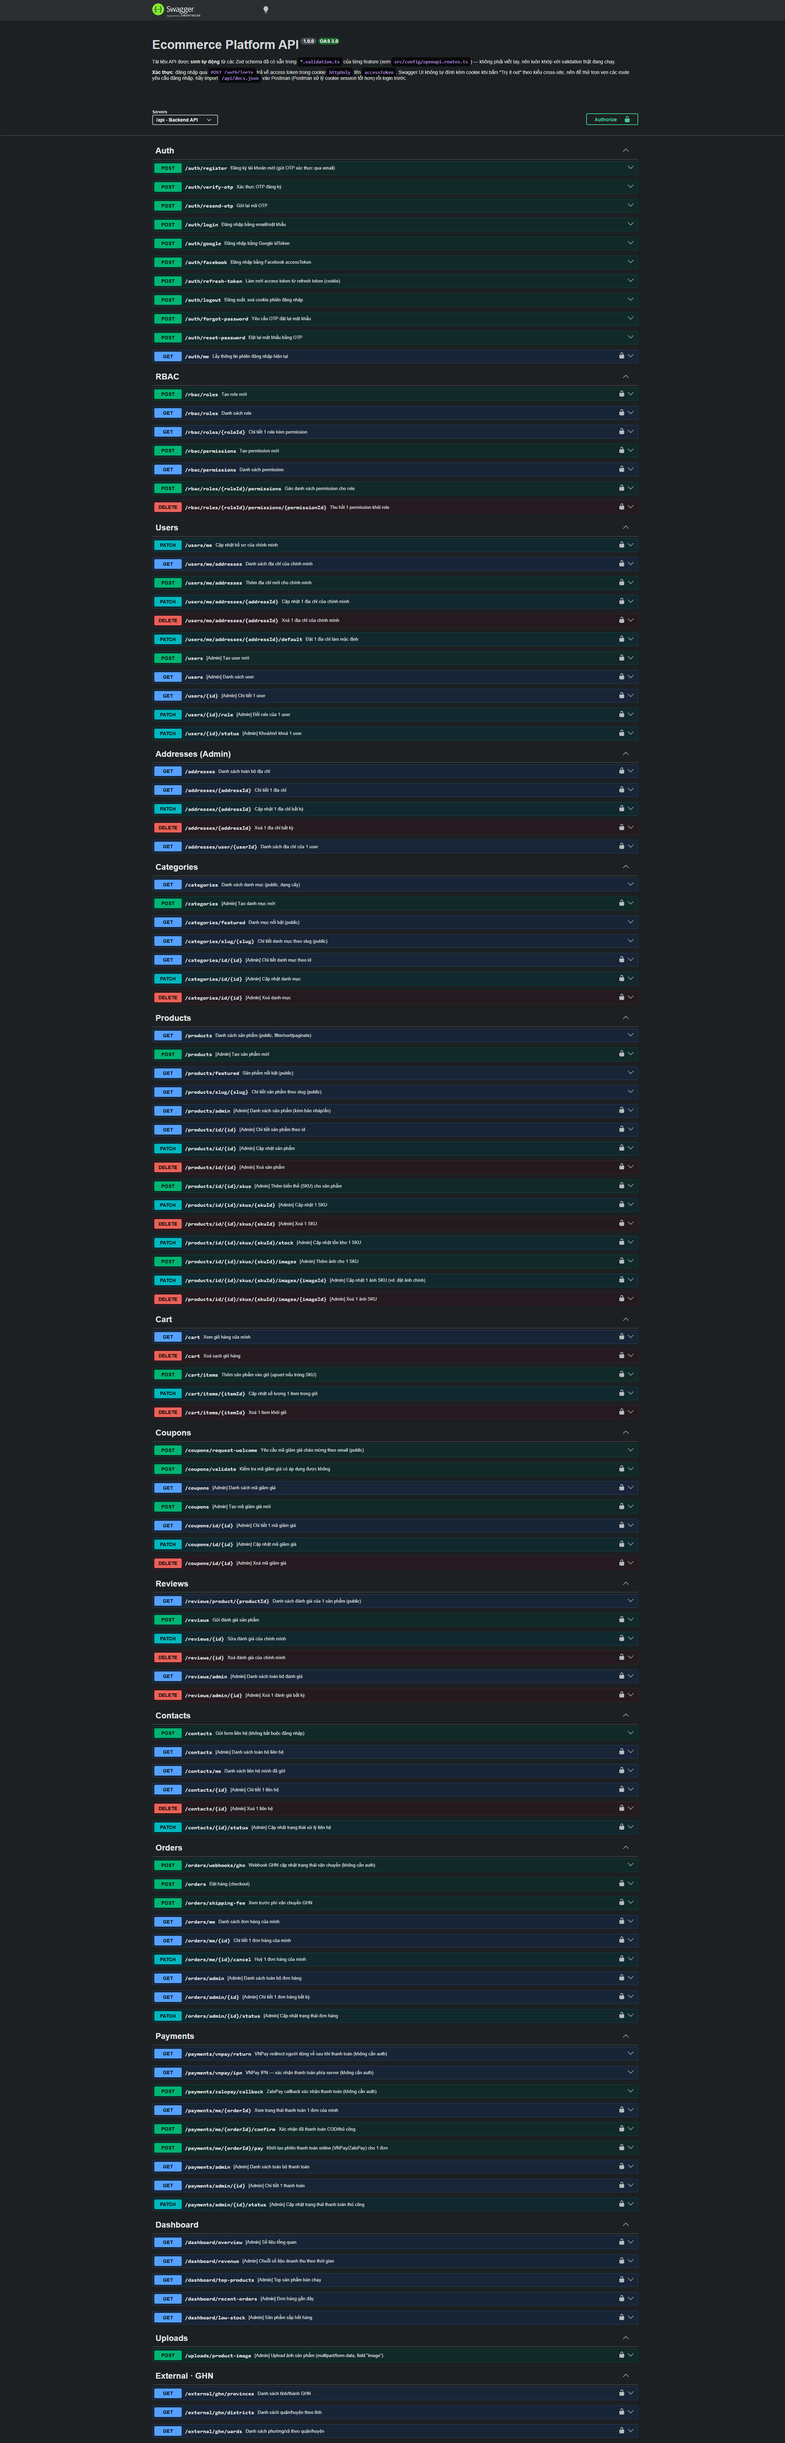
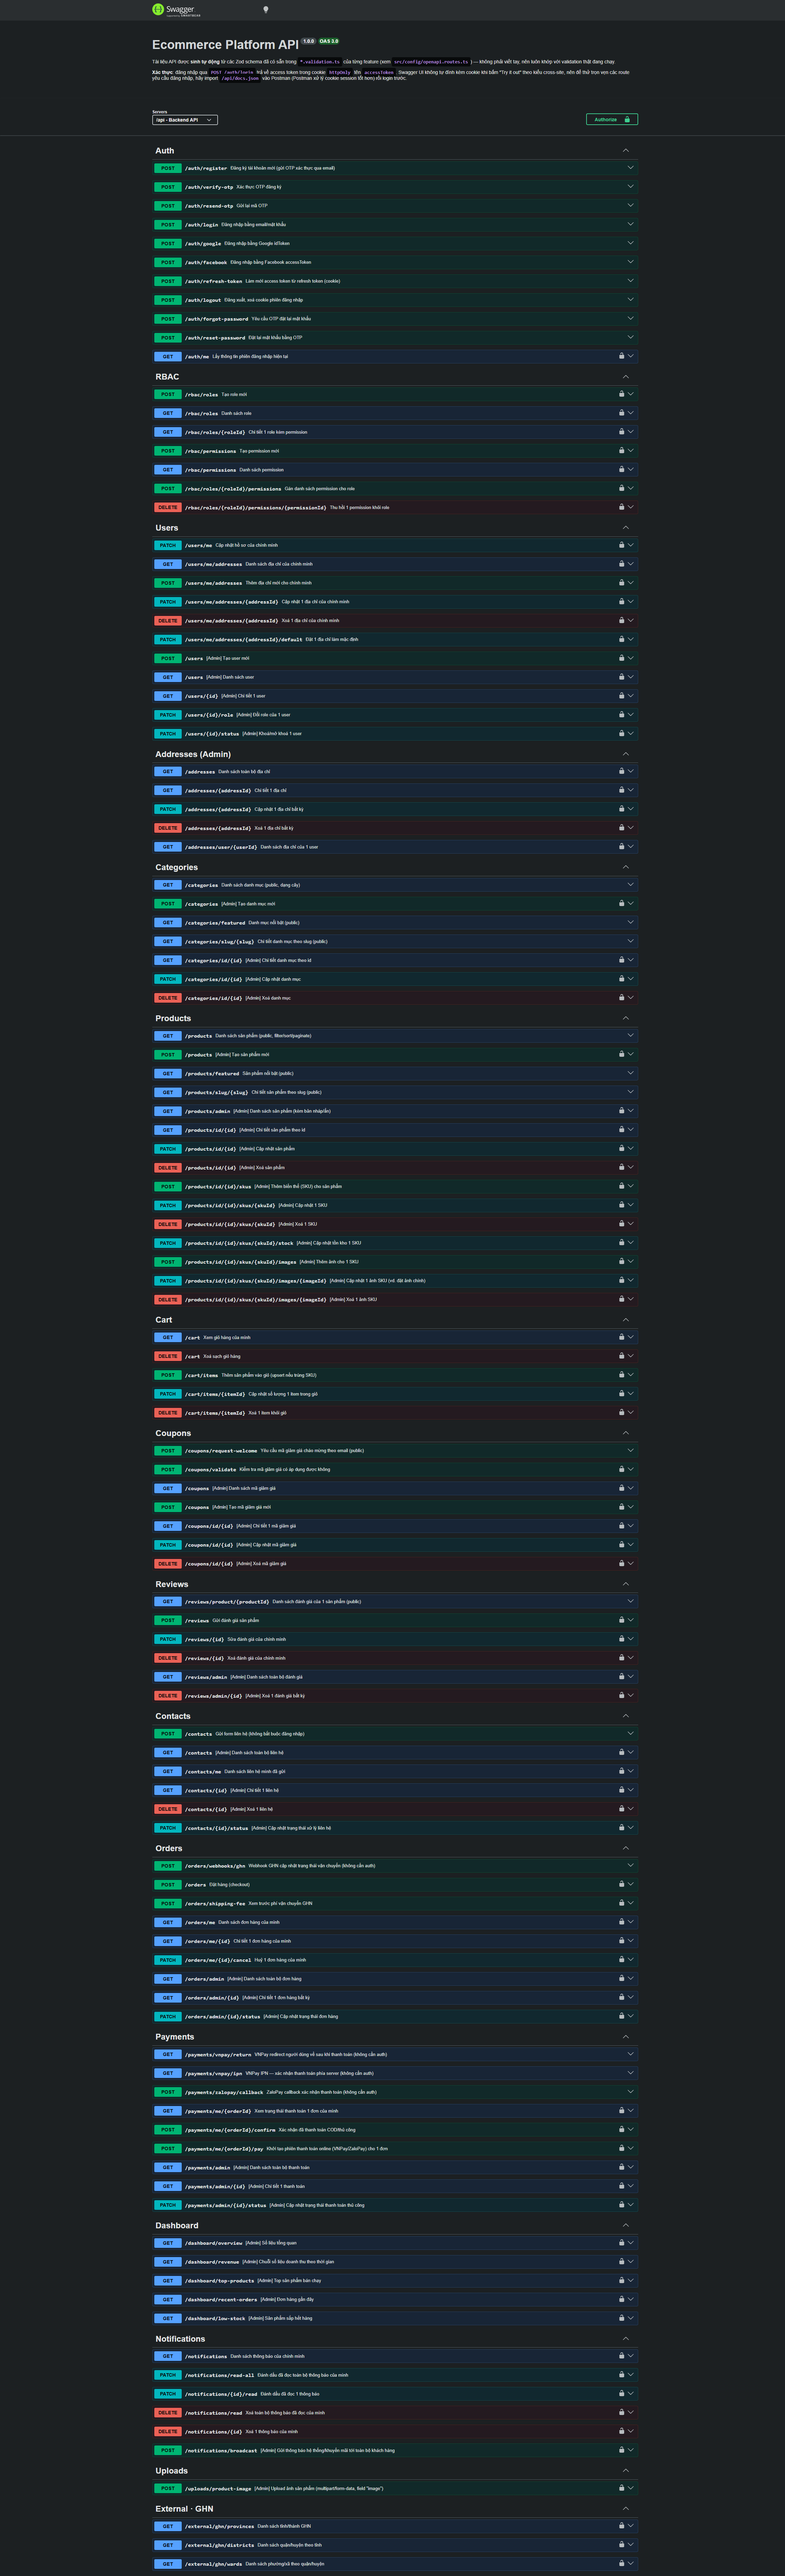
Update: swagger UI

diff --git a/backend/src/config/openapi.routes.ts b/backend/src/config/openapi.routes.ts
@@ -52,6 +52,7 @@ import {
 } from "../features/orders/order.validation.js";
 import { OwnPaymentParamSchema, ConfirmOwnPaymentSchema, ListPaymentsAdminQuerySchema, PaymentIdParamSchema, UpdatePaymentStatusSchema } from "../features/payments/payment.validation.js";
 import { RevenueSeriesQuerySchema, TopProductsQuerySchema, RecentOrdersQuerySchema, LowStockQuerySchema } from "../features/dashboard/dashboard.validation.js";
+import { ListOwnNotificationsQuerySchema, NotificationIdParamSchema, BroadcastNotificationSchema } from "../features/notifications/notification.validation.js";
 import { DistrictSchema, WardSchema } from "../external/ghn/ghn.validation.js";
 
 export interface RouteMeta {
@@ -198,6 +199,14 @@ export const routeManifest: RouteMeta[] = [
 	{ method: "get", path: "/dashboard/top-products", tag: "Dashboard", summary: "[Admin] Top sản phẩm bán chạy", auth: true, permission: "dashboard:read", schema: TopProductsQuerySchema },
 	{ method: "get", path: "/dashboard/recent-orders", tag: "Dashboard", summary: "[Admin] Đơn hàng gần đây", auth: true, permission: "dashboard:read", schema: RecentOrdersQuerySchema },
 	{ method: "get", path: "/dashboard/low-stock", tag: "Dashboard", summary: "[Admin] Sản phẩm sắp hết hàng", auth: true, permission: "dashboard:read", schema: LowStockQuerySchema },
+
+	// ── Notifications ────────────────────────────────────────────────────
+	{ method: "get", path: "/notifications", tag: "Notifications", summary: "Danh sách thông báo của chính mình", auth: true, schema: ListOwnNotificationsQuerySchema },
+	{ method: "patch", path: "/notifications/read-all", tag: "Notifications", summary: "Đánh dấu đã đọc toàn bộ thông báo của mình", auth: true },
+	{ method: "patch", path: "/notifications/:id/read", tag: "Notifications", summary: "Đánh dấu đã đọc 1 thông báo", auth: true, schema: NotificationIdParamSchema },
+	{ method: "delete", path: "/notifications/read", tag: "Notifications", summary: "Xoá toàn bộ thông báo đã đọc của mình", auth: true },
+	{ method: "delete", path: "/notifications/:id", tag: "Notifications", summary: "Xoá 1 thông báo của mình", auth: true, schema: NotificationIdParamSchema },
+	{ method: "post", path: "/notifications/broadcast", tag: "Notifications", summary: "[Admin] Gửi thông báo hệ thống/khuyến mãi tới toàn bộ khách hàng", auth: true, permission: "notification:broadcast", schema: BroadcastNotificationSchema },
 
 	// ── Uploads ──────────────────────────────────────────────────────────
 	{ method: "post", path: "/uploads/product-image", tag: "Uploads", summary: "[Admin] Upload ảnh sản phẩm (multipart/form-data, field \"image\")", auth: true, permission: "catalog:write" },
